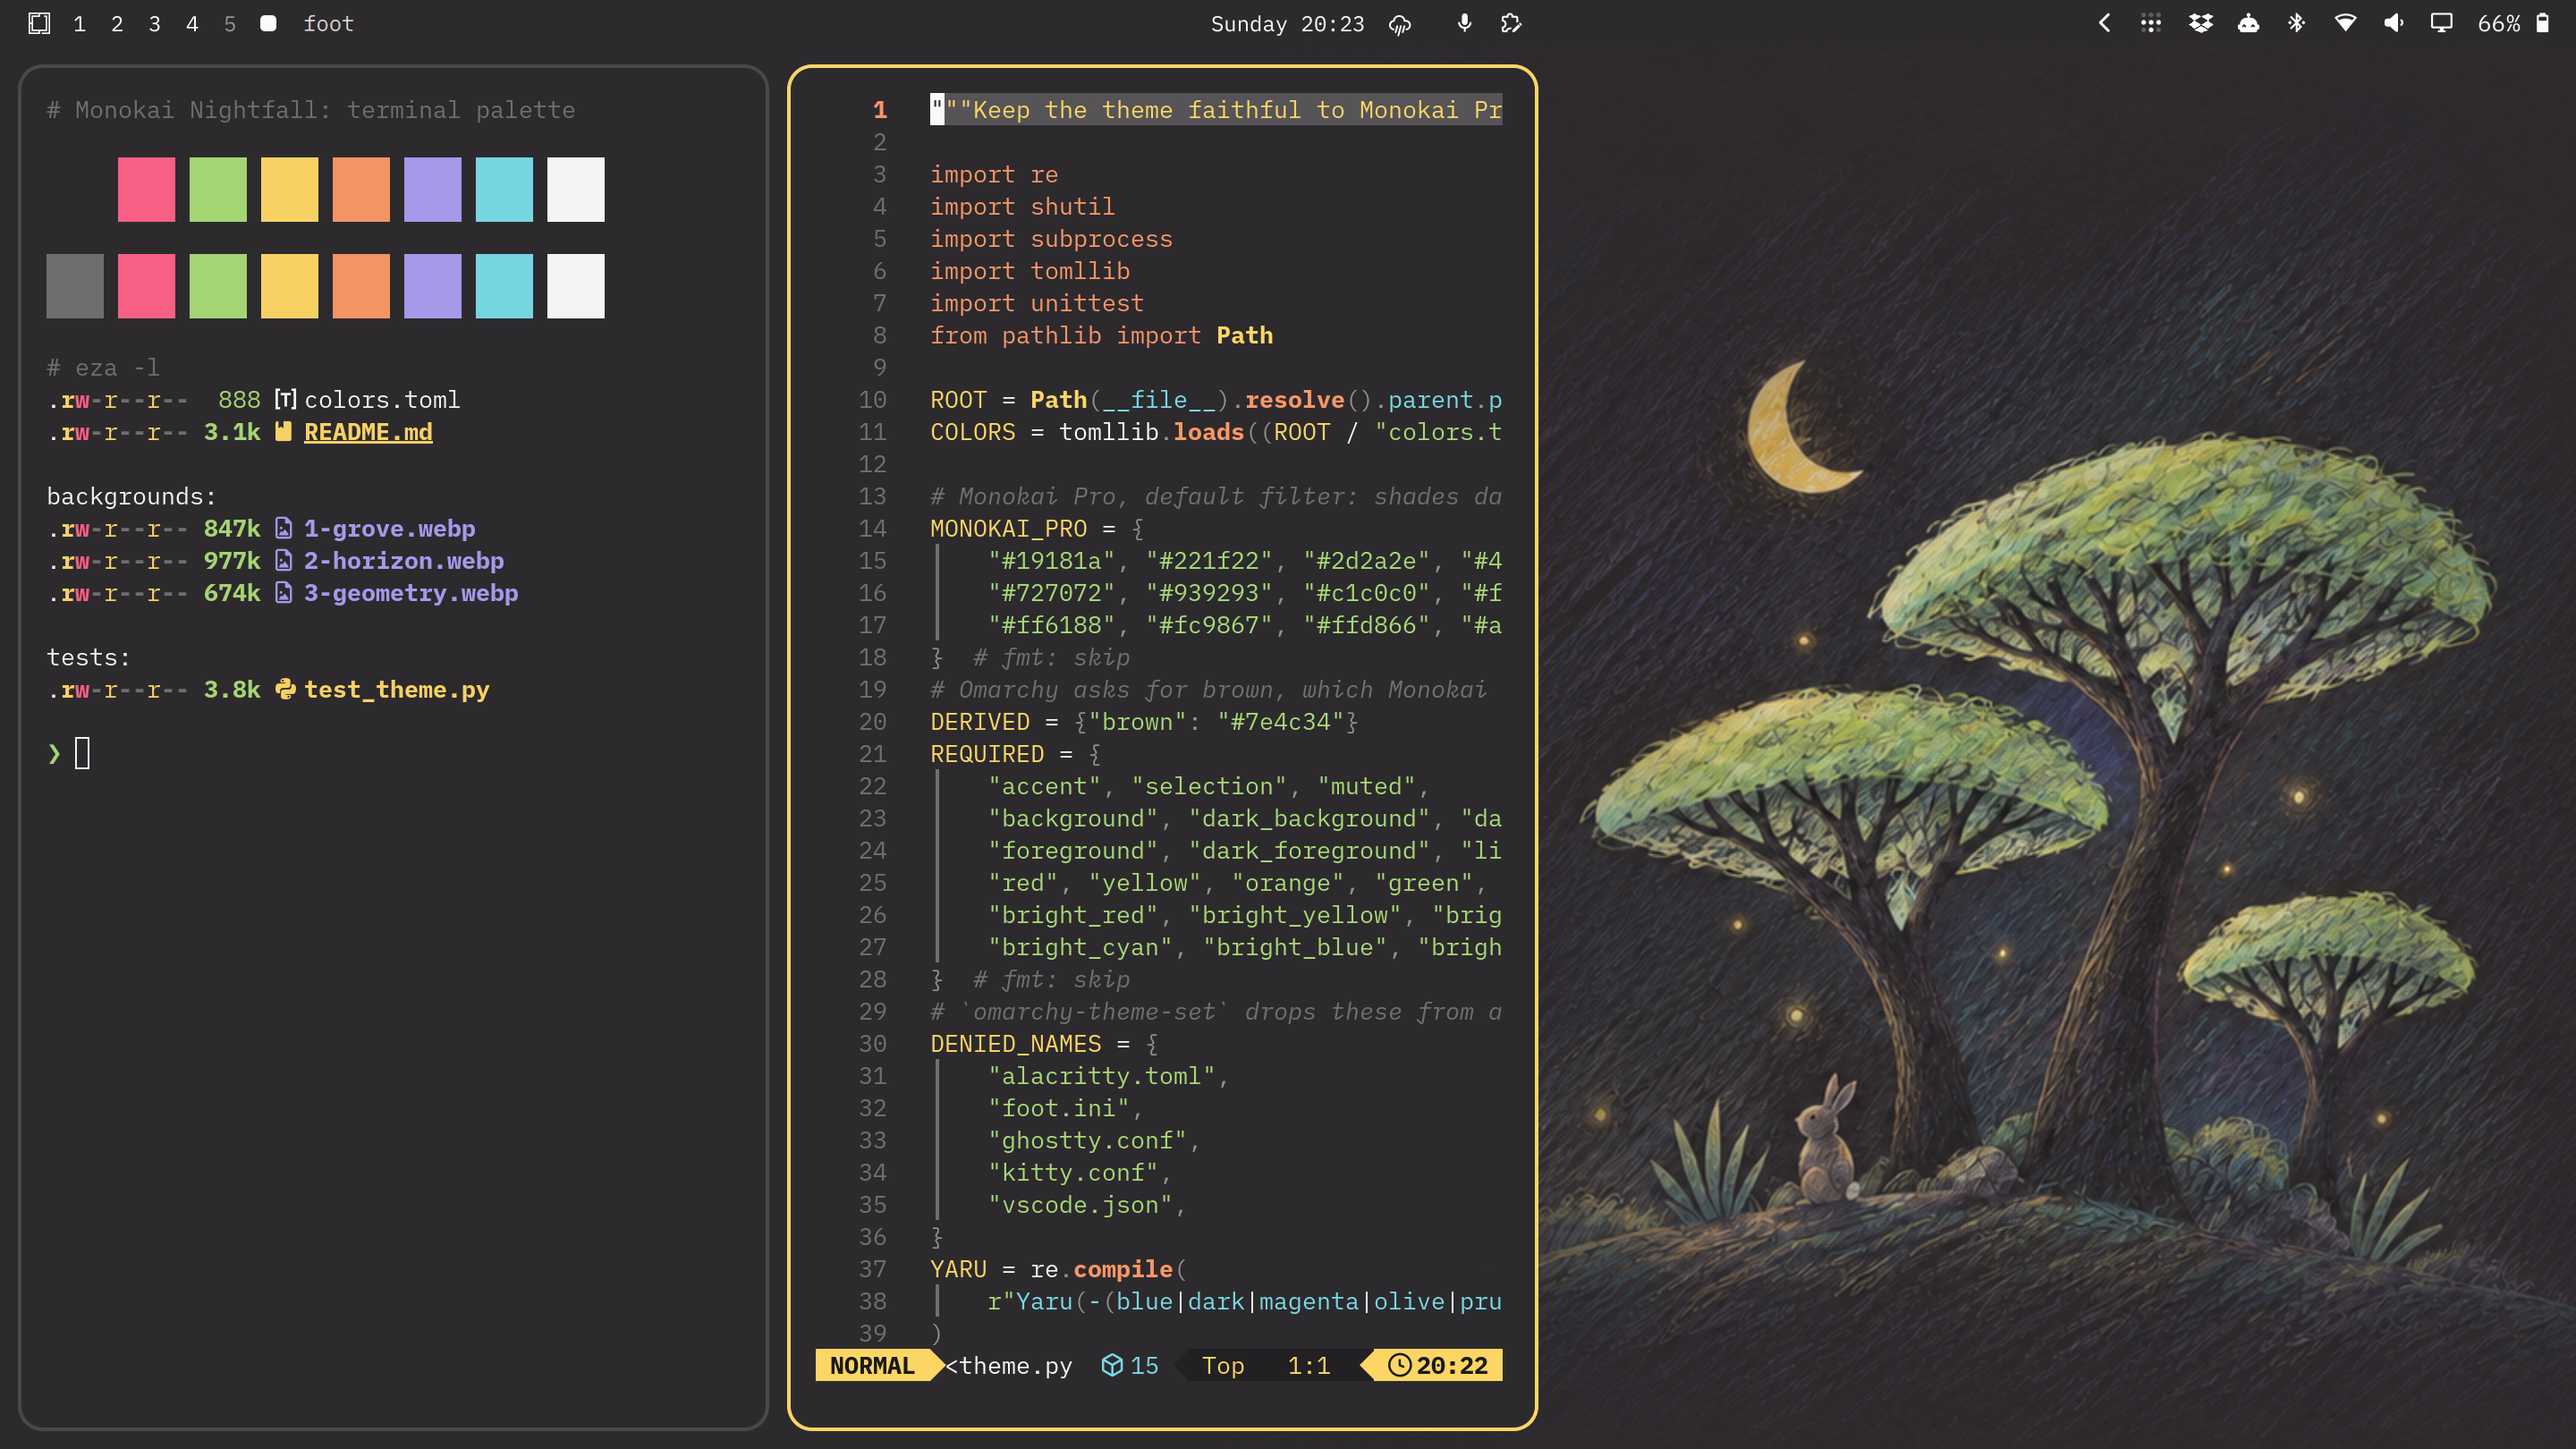
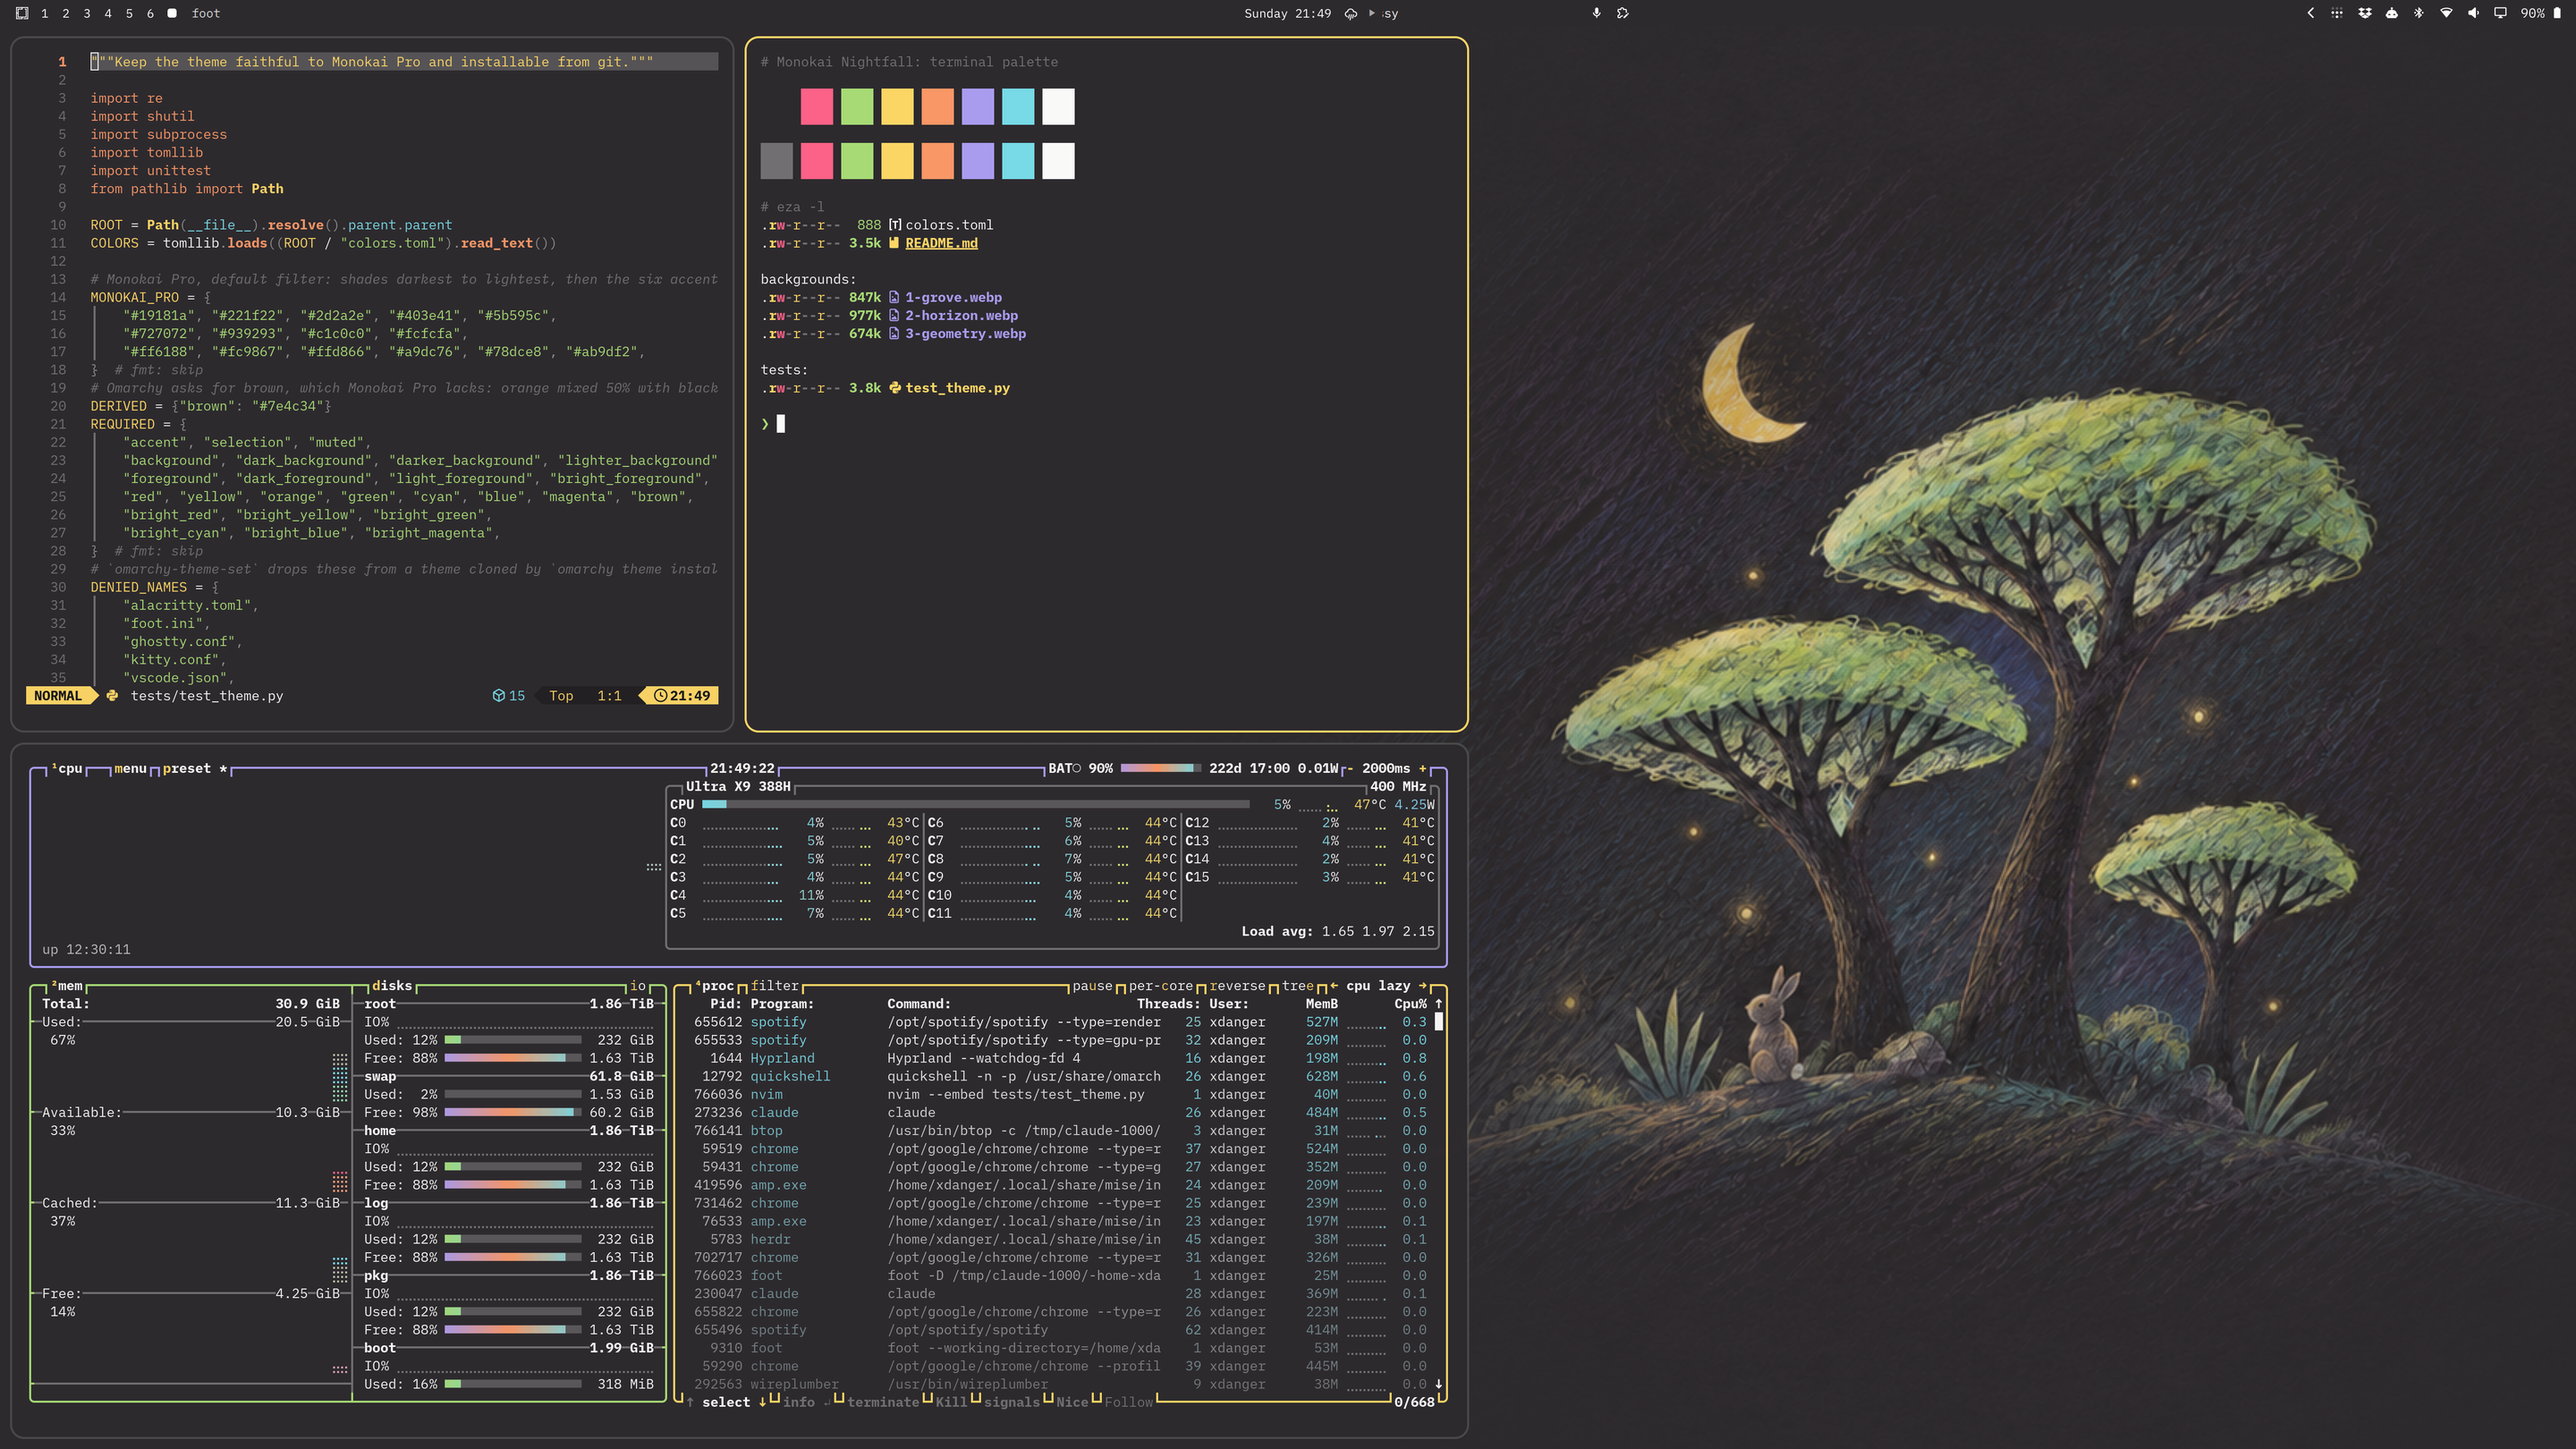
📝 docs(screenshots): retake on 5k with btop
- :memo: match the omarchy.org gallery, where btop and a real session sell the theme
- :memo: native 16:9 capture keeps the whole wallpaper scene beside the windows

Claude-Session: https://claude.ai/code/session_01KcMBmdTUYPsxUBktRW77dF

diff --git a/README.md b/README.md
@@ -1,6 +1,6 @@
 # Monokai Nightfall for Omarchy
 
-![Monokai Nightfall on Omarchy: a terminal and Neovim beside the pencil grove wallpaper](screenshots/desktop.webp)
+![Monokai Nightfall on Omarchy: Neovim, a terminal and btop beside the pencil grove wallpaper](screenshots/desktop.webp)
 
 Monokai Nightfall is an unofficial Omarchy theme, installed as
 `monokai-nightfall`. It uses the modern [Monokai Pro](https://monokai.pro/)
